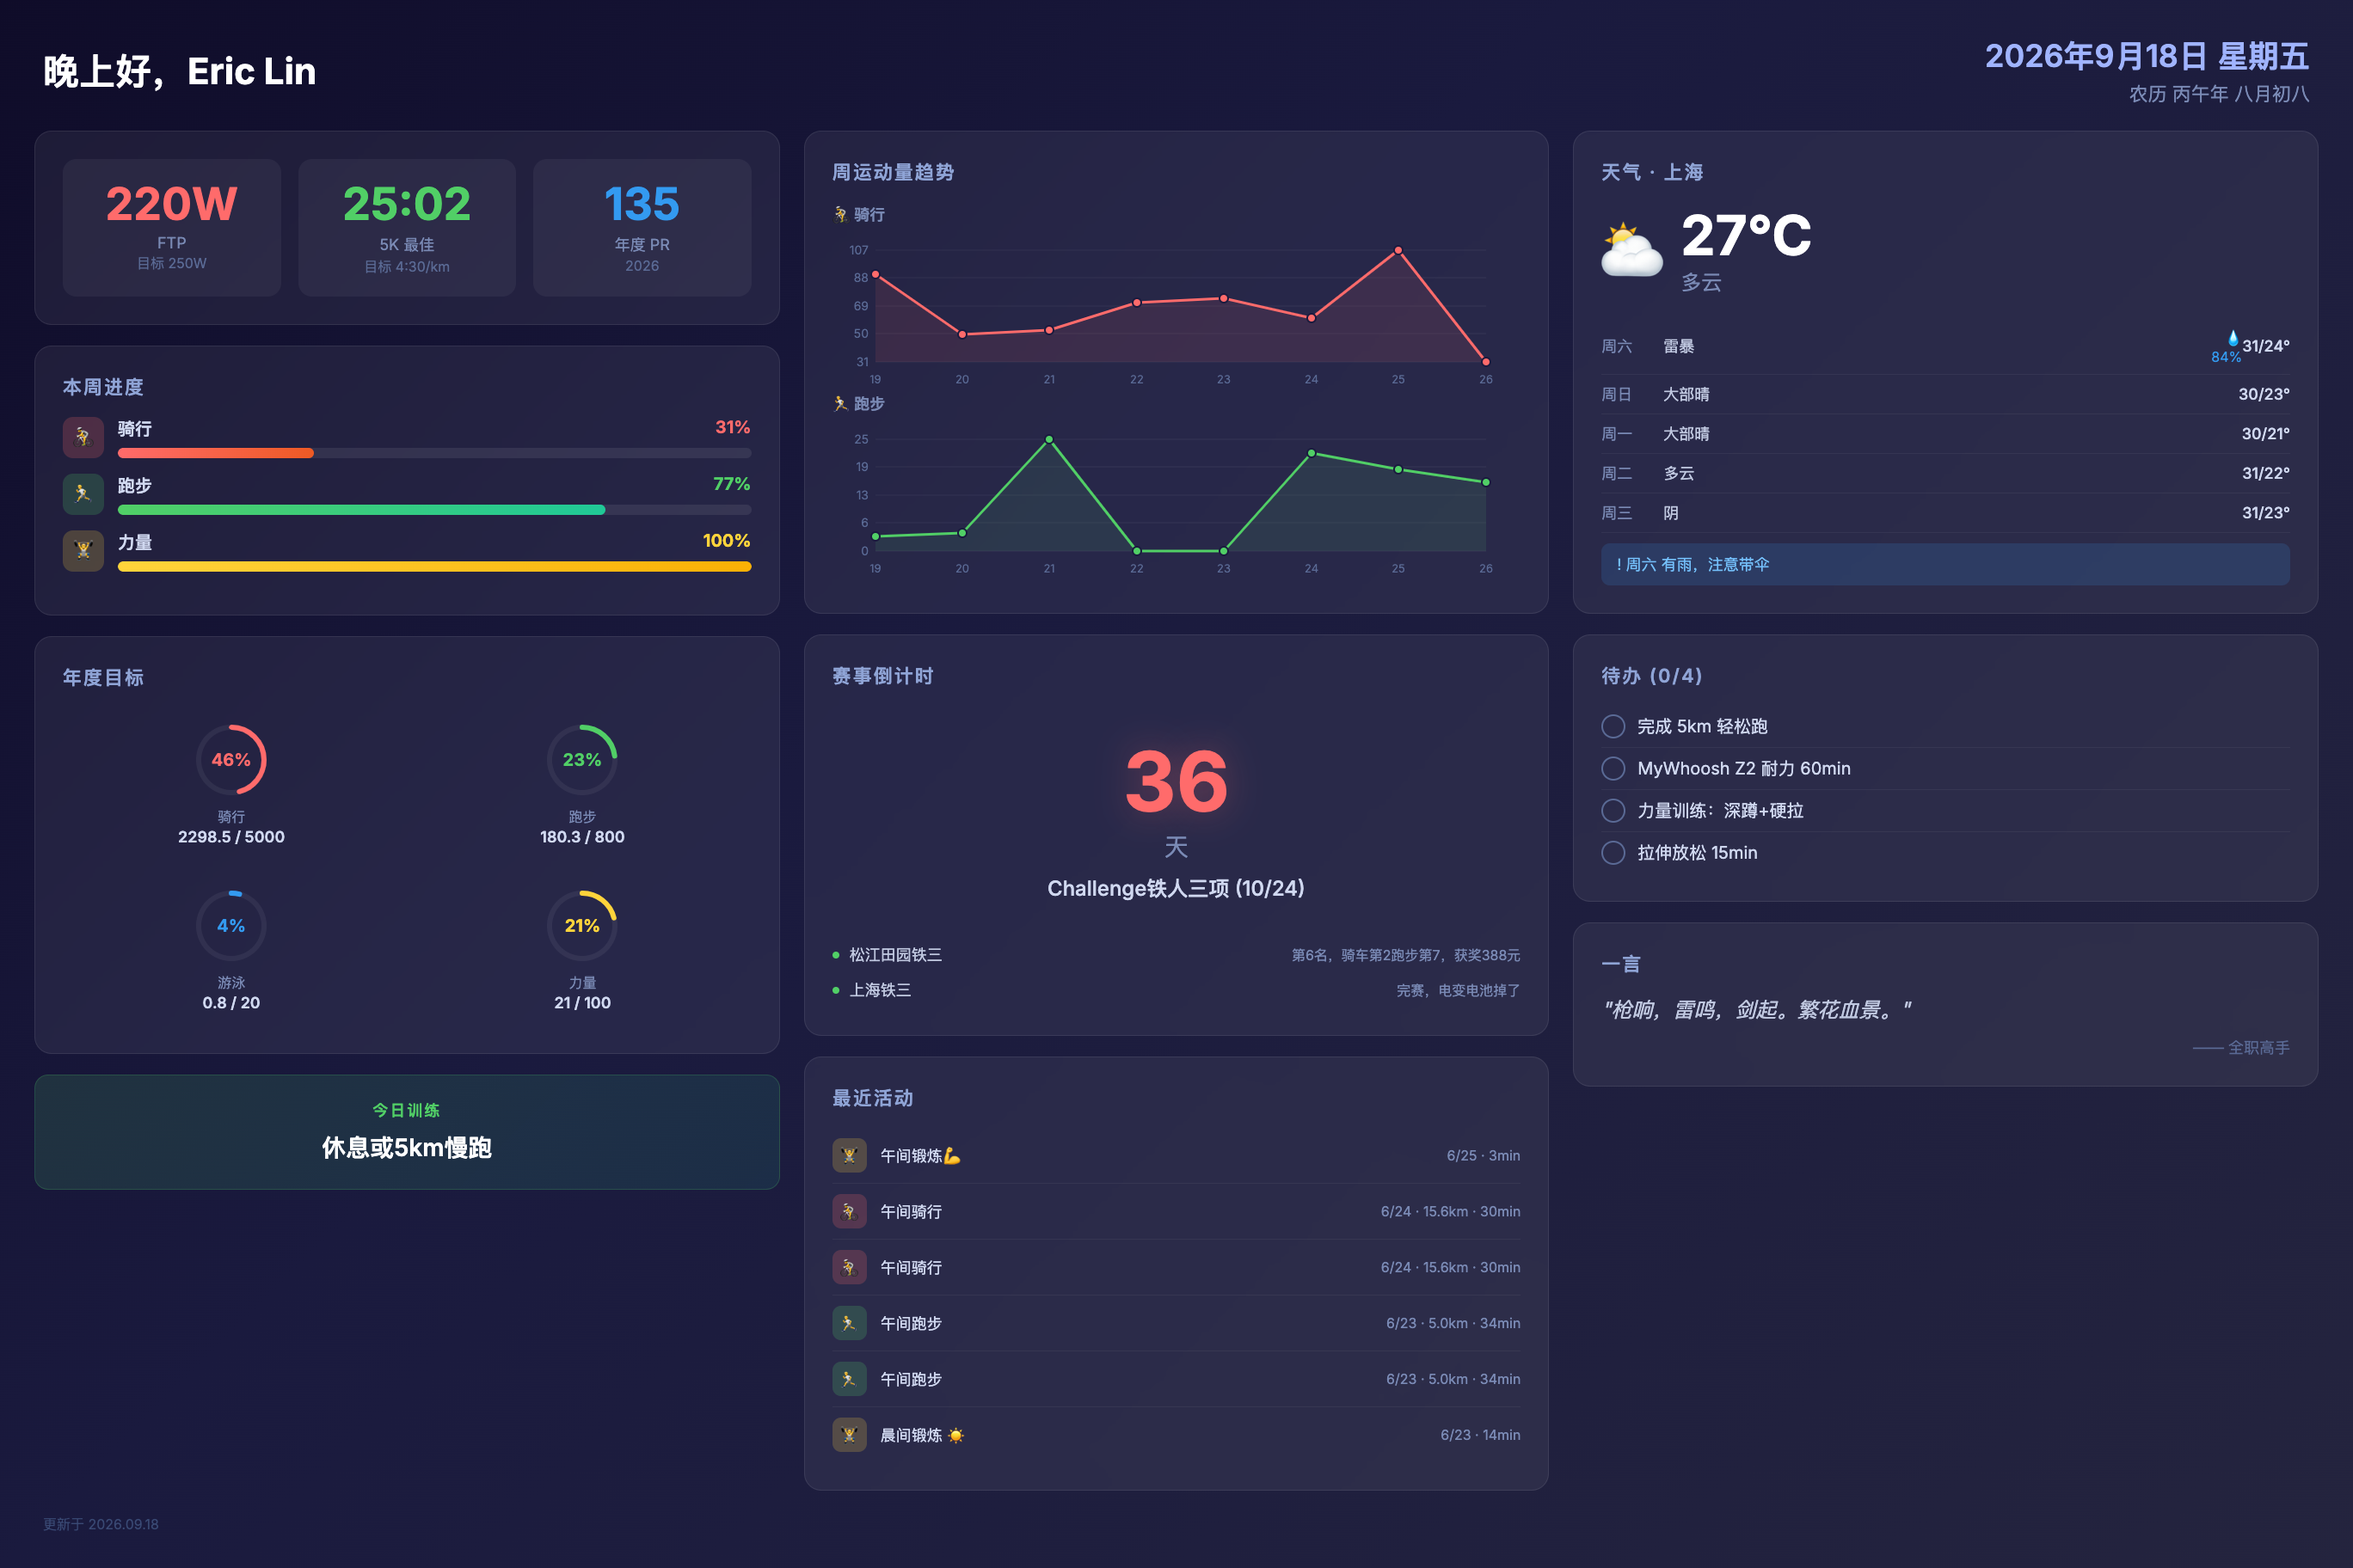
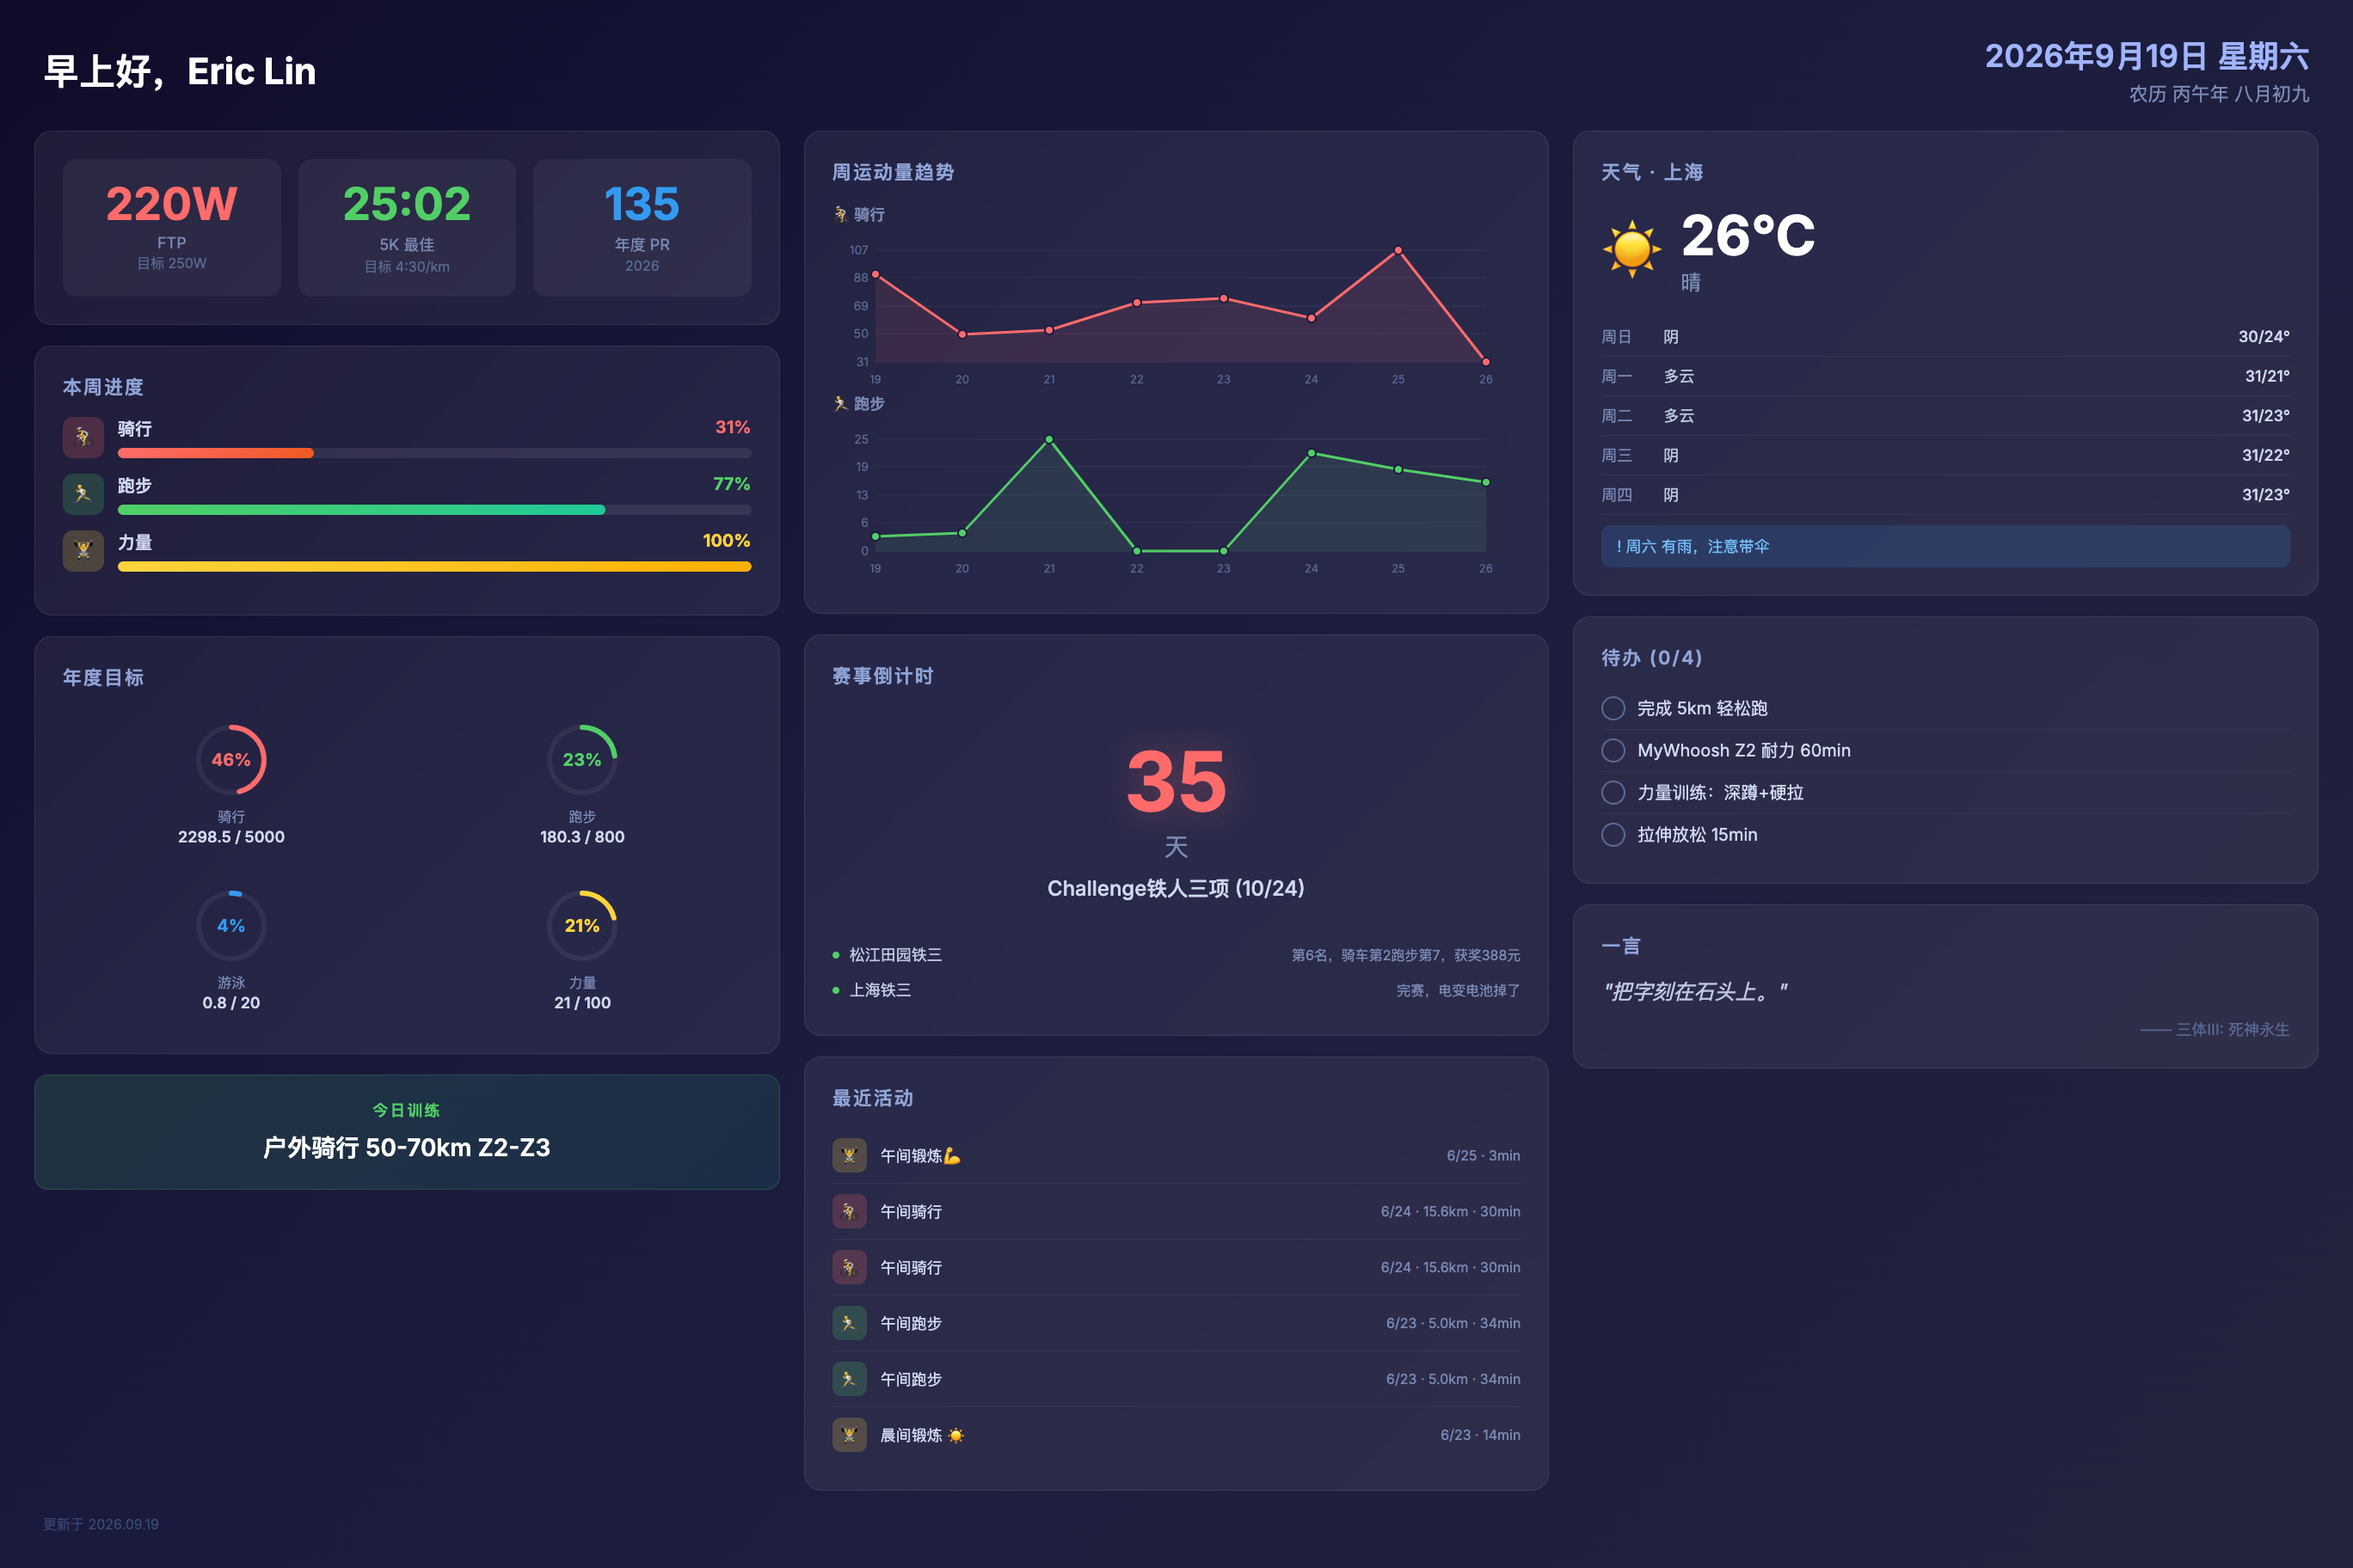
deploy: 2026-09-19-07:08

diff --git a/screensaver.html b/screensaver.html
@@ -490,13 +490,13 @@ html, body {
 <!-- ===== TOP BAR ===== -->
 <div class="top-bar">
   <div>
-    <div class="greeting">晚上好，Eric Lin</div>
+    <div class="greeting">早上好，Eric Lin</div>
     
   </div>
   <div class="date-info">
-    <div class="solar-date">2026年9月18日 星期五</div>
+    <div class="solar-date">2026年9月19日 星期六</div>
     
-    <div class="lunar-date">农历 丙午年 八月初八</div>
+    <div class="lunar-date">农历 丙午年 八月初九</div>
     
   </div>
 </div>
@@ -638,7 +638,7 @@ html, body {
   
   <div class="ai-today-card">
     <div class="ai-today-label">今日训练</div>
-    <div class="ai-today-text">休息或5km慢跑</div>
+    <div class="ai-today-text">户外骑行 50-70km Z2-Z3</div>
   </div>
   
 
@@ -732,7 +732,7 @@ html, body {
   <div class="card">
     <div class="card-title">赛事倒计时</div>
     <div class="race-countdown">
-      <div class="countdown-number">36</div>
+      <div class="countdown-number">35</div>
       <div class="countdown-unit">天</div>
       <div class="countdown-name">Challenge铁人三项 (10/24)</div>
     </div>
@@ -808,44 +808,44 @@ html, body {
   <div class="card">
     <div class="card-title">天气 · 上海</div>
     <div class="weather-current">
-      <div class="weather-icon-big">⛅</div>
+      <div class="weather-icon-big">☀</div>
       <div>
-        <div class="weather-temp-big">27°C</div>
-        <div class="weather-desc">多云</div>
+        <div class="weather-temp-big">26°C</div>
+        <div class="weather-desc">晴</div>
       </div>
     </div>
     
     
     <div class="forecast-row">
-      <div class="forecast-day">周六</div>
-      <div class="forecast-desc">雷暴</div>
-      <div class="forecast-precip">💧84%</div>
-      <div class="forecast-range">31/24°</div>
-    </div>
-    
-    <div class="forecast-row">
       <div class="forecast-day">周日</div>
-      <div class="forecast-desc">大部晴</div>
+      <div class="forecast-desc">阴</div>
       <div class="forecast-precip"></div>
-      <div class="forecast-range">30/23°</div>
+      <div class="forecast-range">30/24°</div>
     </div>
     
     <div class="forecast-row">
       <div class="forecast-day">周一</div>
-      <div class="forecast-desc">大部晴</div>
+      <div class="forecast-desc">多云</div>
       <div class="forecast-precip"></div>
-      <div class="forecast-range">30/21°</div>
+      <div class="forecast-range">31/21°</div>
     </div>
     
     <div class="forecast-row">
       <div class="forecast-day">周二</div>
       <div class="forecast-desc">多云</div>
       <div class="forecast-precip"></div>
-      <div class="forecast-range">31/22°</div>
+      <div class="forecast-range">31/23°</div>
     </div>
     
     <div class="forecast-row">
       <div class="forecast-day">周三</div>
+      <div class="forecast-desc">阴</div>
+      <div class="forecast-precip"></div>
+      <div class="forecast-range">31/22°</div>
+    </div>
+    
+    <div class="forecast-row">
+      <div class="forecast-day">周四</div>
       <div class="forecast-desc">阴</div>
       <div class="forecast-precip"></div>
       <div class="forecast-range">31/23°</div>
@@ -902,9 +902,9 @@ html, body {
   
   <div class="card">
     <div class="card-title">一言</div>
-    <div class="quote-text">"枪响，雷鸣，剑起。繁花血景。"</div>
+    <div class="quote-text">"把字刻在石头上。"</div>
     
-    <div class="quote-from">—— 全职高手</div>
+    <div class="quote-from">—— 三体III: 死神永生</div>
     
   </div>
   
@@ -913,7 +913,7 @@ html, body {
 
 <!-- ===== BOTTOM BAR ===== -->
 <div class="bottom-bar">
-  <div class="update-time">更新于 2026.09.18</div>
+  <div class="update-time">更新于 2026.09.19</div>
 </div>
 
 </div>

diff --git a/life.html b/life.html
@@ -89,7 +89,7 @@ html, body {
 <table class="header-table">
   <tr>
     <td class="header-left">生活</td>
-    <td class="header-right">2026.09.18</td>
+    <td class="header-right">2026.09.19</td>
   </tr>
 </table>
 
@@ -137,61 +137,61 @@ html, body {
   <p class="section-title">☀ 天气 · 上海</p>
   <table class="weather-table">
     <tr>
-      <td class="weather-icon">~</td>
-      <td class="weather-temp">27°C</td>
-      <td class="weather-desc">多云</td>
+      <td class="weather-icon">*</td>
+      <td class="weather-temp">26°C</td>
+      <td class="weather-desc">晴</td>
     </tr>
   </table>
   
   <table class="forecast-table">
     
     <tr>
-      <td class="forecast-day">周六</td>
-      <td class="forecast-icon">!</td>
-      <td>雷暴</td>
-      <td class="forecast-range">31/24°C</td>
-    </tr>
-    
-    <tr>
       <td class="forecast-day">周日</td>
-      <td class="forecast-icon">*</td>
-      <td>大部晴</td>
-      <td class="forecast-range">30/23°C</td>
+      <td class="forecast-icon">~</td>
+      <td>阴</td>
+      <td class="forecast-range">30/24°C</td>
     </tr>
     
     <tr>
       <td class="forecast-day">周一</td>
-      <td class="forecast-icon">*</td>
-      <td>大部晴</td>
-      <td class="forecast-range">30/21°C</td>
+      <td class="forecast-icon">~</td>
+      <td>多云</td>
+      <td class="forecast-range">31/21°C</td>
     </tr>
     
     <tr>
       <td class="forecast-day">周二</td>
       <td class="forecast-icon">~</td>
       <td>多云</td>
-      <td class="forecast-range">31/22°C</td>
+      <td class="forecast-range">31/23°C</td>
     </tr>
     
     <tr>
       <td class="forecast-day">周三</td>
       <td class="forecast-icon">~</td>
       <td>阴</td>
-      <td class="forecast-range">31/23°C</td>
+      <td class="forecast-range">31/22°C</td>
     </tr>
     
     <tr>
       <td class="forecast-day">周四</td>
       <td class="forecast-icon">~</td>
       <td>阴</td>
-      <td class="forecast-range">30/23°C</td>
+      <td class="forecast-range">31/23°C</td>
     </tr>
     
     <tr>
       <td class="forecast-day">周五</td>
-      <td class="forecast-icon">~</td>
-      <td>阴</td>
-      <td class="forecast-range">34/25°C</td>
+      <td class="forecast-icon">.</td>
+      <td>小毛雨</td>
+      <td class="forecast-range">32/25°C</td>
+    </tr>
+    
+    <tr>
+      <td class="forecast-day">周六</td>
+      <td class="forecast-icon">!</td>
+      <td>雷暴+冰雹</td>
+      <td class="forecast-range">37/25°C</td>
     </tr>
     
   </table>
@@ -207,10 +207,10 @@ html, body {
   <p class="section-title">📅 今日</p>
   <table class="data-table">
     <tr>
-      <td>2026年9月18日 星期四</td>
+      <td>2026年9月19日 星期五</td>
     </tr>
     <tr>
-      <td>农历丙午年 八月初八</td>
+      <td>农历丙午年 八月初九</td>
     </tr>
   </table>
 </div>
@@ -261,9 +261,9 @@ html, body {
 
 <div class="box">
   <p class="section-title">💬 一言</p>
-  <p class="quote-text">枪响，雷鸣，剑起。繁花血景。</p>
+  <p class="quote-text">把字刻在石头上。</p>
   
-  <p class="quote-from">—— 全职高手</p>
+  <p class="quote-from">—— 三体III: 死神永生</p>
   
 </div>
 

diff --git a/index.html b/index.html
@@ -74,7 +74,7 @@ html, body {
 <table class="header-table">
   <tr>
     <td class="header-left">Eric Lin · 运动</td>
-    <td class="header-right">2026.09.18</td>
+    <td class="header-right">2026.09.19</td>
   </tr>
 </table>
 
@@ -225,17 +225,10 @@ html, body {
 <div class="ai-plan">
   <div class="ai-plan-title">AI 训练建议</div>
   
-  <div class="ai-today">今日: 力量训练（全身）</div>
+  <div class="ai-today">今日: 户外骑行 60km Z2-Z3</div>
   
   
   <table class="ai-weekly">
-    
-    <tr>
-      <td class="day">周五</td>
-      
-      <td>力量训练（全身）</td>
-      
-    </tr>
     
     <tr>
       <td class="day">周六</td>
@@ -279,6 +272,13 @@ html, body {
       
     </tr>
     
+    <tr>
+      <td class="day">周五</td>
+      
+      <td>力量训练（全身）</td>
+      
+    </tr>
+    
   </table>
   
   
@@ -293,7 +293,7 @@ html, body {
   <p class="section-title">即将到来</p>
   
   <div class="countdown-box">
-    <div class="countdown-days">36</div>
+    <div class="countdown-days">35</div>
     <div class="countdown-label">距 Challenge铁人三项 (10/24)</div>
   </div>
   

diff --git a/work.html b/work.html
@@ -89,7 +89,7 @@ html, body {
 <table class="header-table">
   <tr>
     <td class="header-left">工作</td>
-    <td class="header-right">2026.09.18</td>
+    <td class="header-right">2026.09.19</td>
   </tr>
 </table>
 
